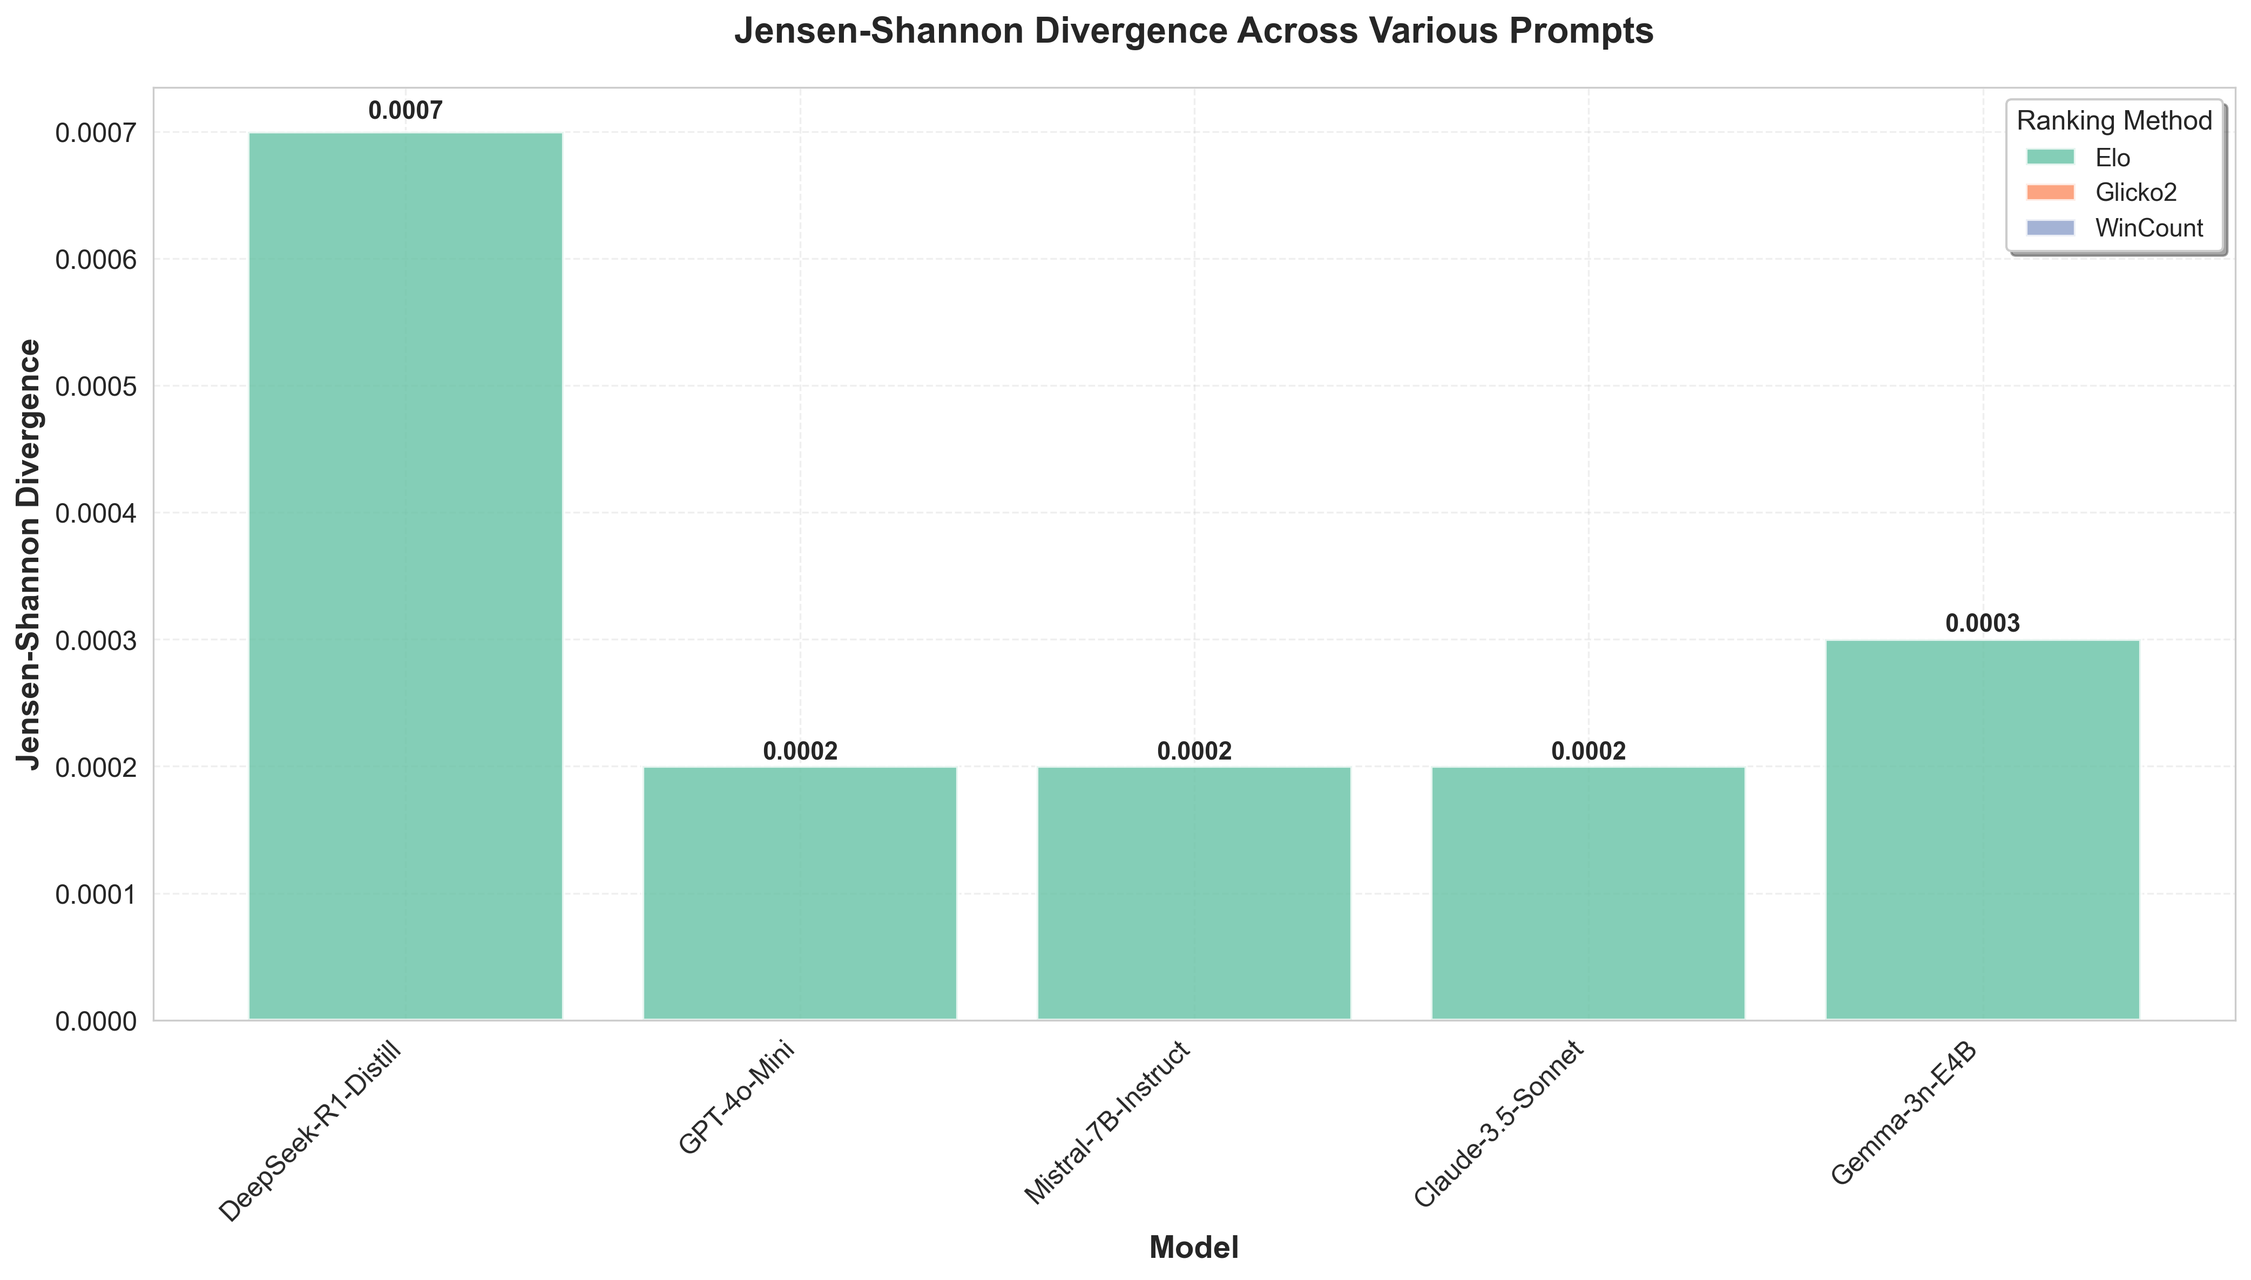
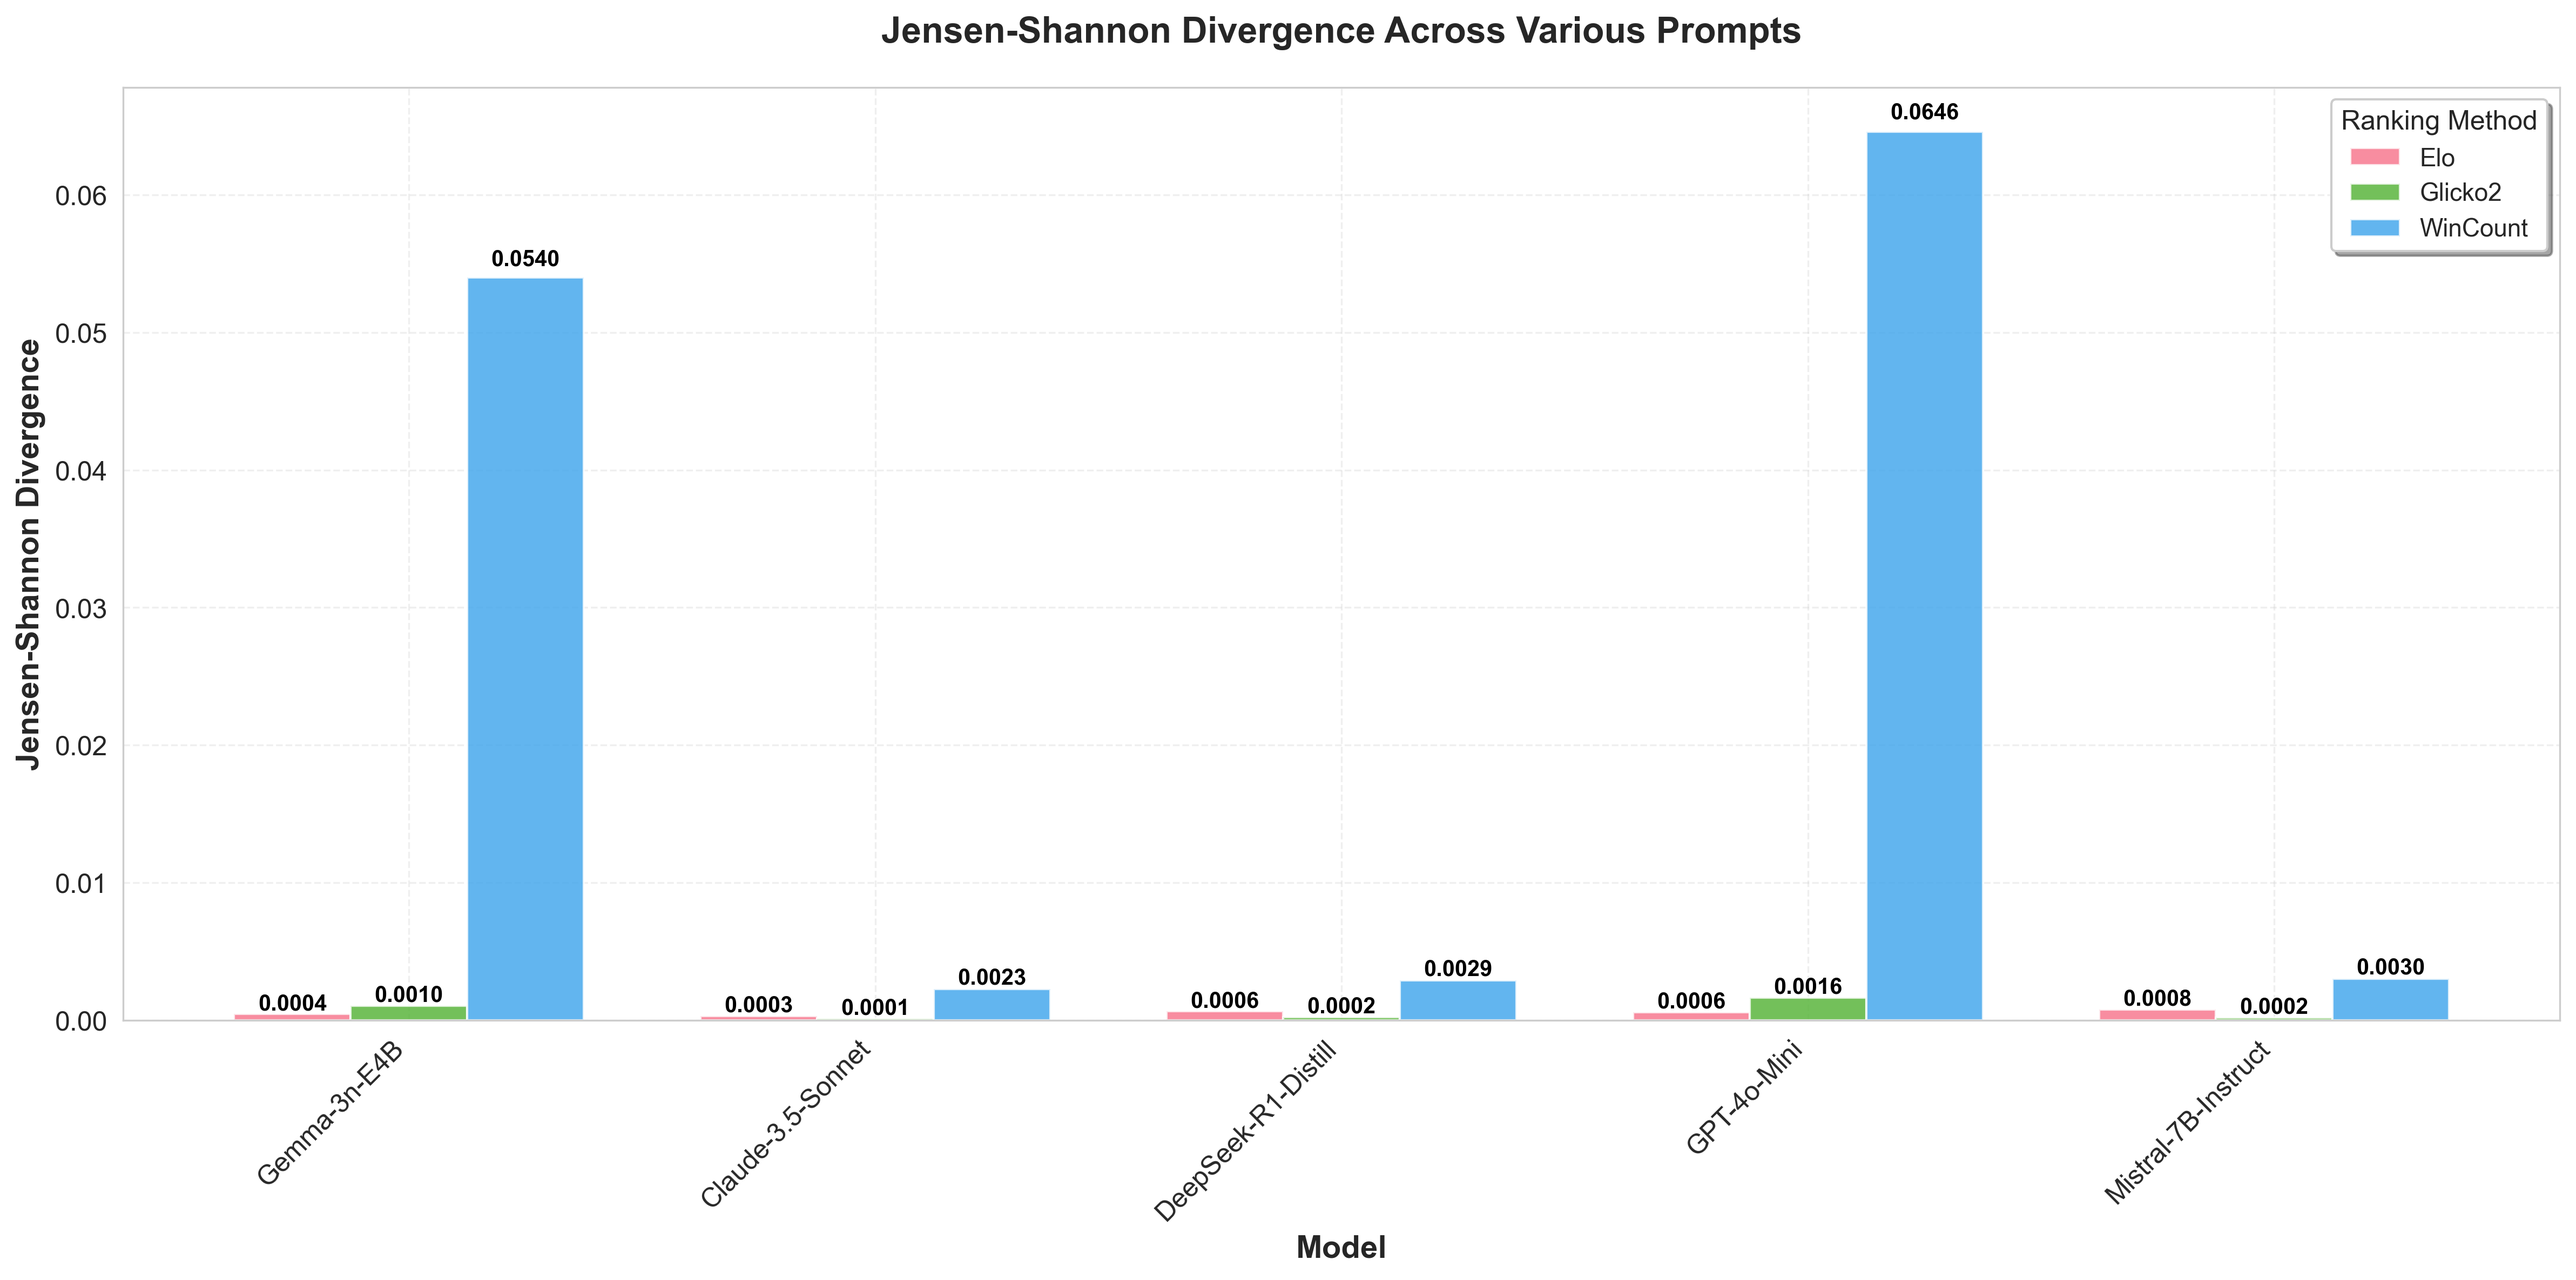
Add plots for ranking variance

diff --git a/create_prompts_variance_plots.py b/create_prompts_variance_plots.py
@@ -1,0 +1,96 @@
+import pandas as pd
+import matplotlib.pyplot as plt
+import seaborn as sns
+import numpy as np
+
+# Set seaborn style for better-looking plots
+sns.set_style("whitegrid")
+sns.set_palette("husl")
+
+# Read the variance metrics data
+df = pd.read_csv('logs/variances_over_prompts/variance_metrics_table.csv')
+
+# Use classic seaborn color palette
+colors = sns.color_palette("husl", 3)
+method_colors = {'Elo': colors[0], 'Glicko2': colors[1], 'WinCount': colors[2]}
+
+# Function to create grouped bar plots
+def create_grouped_bar_plot(df, metric, title, ylabel, filename):
+    plt.figure(figsize=(16, 8))
+    
+    # Get unique models and methods
+    models = df['Model'].unique()
+    methods = df['Method'].unique()
+    
+    # Set up bar positions
+    x = np.arange(len(models))
+    width = 0.25  # Width of each bar
+    offsets = np.linspace(-width, width, len(methods))
+    
+    # Create bars for each method
+    for i, method in enumerate(methods):
+        method_data = df[df['Method'] == method]
+        values = [method_data[method_data['Model'] == model][metric].iloc[0] 
+                 if len(method_data[method_data['Model'] == model]) > 0 else 0 
+                 for model in models]
+        
+        bars = plt.bar(x + offsets[i], values, width, 
+                       label=method, color=method_colors[method], alpha=0.8,
+                       edgecolor='white', linewidth=1)
+        
+        # Add value labels on bars - clean without boxes
+        for bar, value in zip(bars, values):
+            height = bar.get_height()
+            if height > 0:  # Only add label if bar has height
+                if metric == 'Rank Edit Distance':
+                    label_text = f'{height:.0f}'
+                elif metric == 'Jensen-Shannon Divergence':
+                    label_text = f'{height:.4f}'
+                else:
+                    label_text = f'{height:.3f}'
+                
+                plt.text(bar.get_x() + bar.get_width()/2., height + height*0.01,
+                        label_text, ha='center', va='bottom', fontsize=10, fontweight='bold',
+                        color='black')
+    
+    plt.title(title, fontsize=16, fontweight='bold', pad=20)
+    plt.ylabel(ylabel, fontsize=14, fontweight='bold')
+    plt.xlabel('Model', fontsize=14, fontweight='bold')
+    plt.xticks(x, models, rotation=45, ha='right', fontsize=12)
+    plt.yticks(fontsize=12)
+    plt.legend(title='Ranking Method', title_fontsize=12, fontsize=11, frameon=True, fancybox=True, shadow=True)
+    plt.grid(True, alpha=0.3, linestyle='--')
+    plt.tight_layout()
+    plt.savefig(filename, dpi=300, bbox_inches='tight', facecolor='white')
+    plt.show()
+
+# Create all three plots
+create_grouped_bar_plot(df, 'Total Variation Distance', 
+                       'Total Variation Distance Across Various Prompts',
+                       'Total Variation Distance',
+                       'logs/variances_over_prompts/tvd_plot.png')
+
+create_grouped_bar_plot(df, 'Jensen-Shannon Divergence',
+                       'Jensen-Shannon Divergence Across Various Prompts',
+                       'Jensen-Shannon Divergence',
+                       'logs/variances_over_prompts/jsd_plot.png')
+
+create_grouped_bar_plot(df, 'Rank Edit Distance',
+                       'Rank Edit Distance Across Various Prompts',
+                       'Rank Edit Distance',
+                       'logs/variances_over_prompts/rank_edit_distance_plot.png')
+
+print("Individual plots saved:")
+print("- logs/variances_over_prompts/tvd_plot.png")
+print("- logs/variances_over_prompts/jsd_plot.png") 
+print("- logs/variances_over_prompts/rank_edit_distance_plot.png")
+
+# Summary statistics
+print("\nSummary Statistics:")
+print("=" * 50)
+for metric in ['Total Variation Distance', 'Jensen-Shannon Divergence', 'Rank Edit Distance']:
+    print(f"\n{metric}:")
+    print(f"  Min: {df[metric].min():.4f}")
+    print(f"  Max: {df[metric].max():.4f}")
+    print(f"  Mean: {df[metric].mean():.4f}")
+    print(f"  Std: {df[metric].std():.4f}") 

diff --git a/create_runs_variance_plots.py b/create_runs_variance_plots.py
@@ -1,0 +1,96 @@
+import pandas as pd
+import matplotlib.pyplot as plt
+import seaborn as sns
+import numpy as np
+
+# Set seaborn style for better-looking plots
+sns.set_style("whitegrid")
+sns.set_palette("husl")
+
+# Read the variance metrics data
+df = pd.read_csv('logs/variances_over_runs/variance_metrics_table.csv')
+
+# Use classic seaborn color palette
+colors = sns.color_palette("husl", 3)
+method_colors = {'Elo': colors[0], 'Glicko2': colors[1], 'WinCount': colors[2]}
+
+# Function to create grouped bar plots
+def create_grouped_bar_plot(df, metric, title, ylabel, filename):
+    plt.figure(figsize=(16, 8))
+    
+    # Get unique models and methods
+    models = df['Model'].unique()
+    methods = df['Method'].unique()
+    
+    # Set up bar positions
+    x = np.arange(len(models))
+    width = 0.25  # Width of each bar
+    offsets = np.linspace(-width, width, len(methods))
+    
+    # Create bars for each method
+    for i, method in enumerate(methods):
+        method_data = df[df['Method'] == method]
+        values = [method_data[method_data['Model'] == model][metric].iloc[0] 
+                 if len(method_data[method_data['Model'] == model]) > 0 else 0 
+                 for model in models]
+        
+        bars = plt.bar(x + offsets[i], values, width, 
+                       label=method, color=method_colors[method], alpha=0.8,
+                       edgecolor='white', linewidth=1)
+        
+        # Add value labels on bars - clean without boxes
+        for bar, value in zip(bars, values):
+            height = bar.get_height()
+            if height > 0:  # Only add label if bar has height
+                if metric == 'Rank Edit Distance':
+                    label_text = f'{height:.0f}'
+                elif metric == 'Jensen-Shannon Divergence':
+                    label_text = f'{height:.4f}'
+                else:
+                    label_text = f'{height:.3f}'
+                
+                plt.text(bar.get_x() + bar.get_width()/2., height + height*0.01,
+                        label_text, ha='center', va='bottom', fontsize=10, fontweight='bold',
+                        color='black')
+    
+    plt.title(title, fontsize=16, fontweight='bold', pad=20)
+    plt.ylabel(ylabel, fontsize=14, fontweight='bold')
+    plt.xlabel('Model', fontsize=14, fontweight='bold')
+    plt.xticks(x, models, rotation=45, ha='right', fontsize=12)
+    plt.yticks(fontsize=12)
+    plt.legend(title='Ranking Method', title_fontsize=12, fontsize=11, frameon=True, fancybox=True, shadow=True)
+    plt.grid(True, alpha=0.3, linestyle='--')
+    plt.tight_layout()
+    plt.savefig(filename, dpi=300, bbox_inches='tight', facecolor='white')
+    plt.show()
+
+# Create all three plots
+create_grouped_bar_plot(df, 'Total Variation Distance', 
+                       'Total Variation Distance Across Various Runs',
+                       'Total Variation Distance',
+                       'logs/variances_over_runs/tvd_plot.png')
+
+create_grouped_bar_plot(df, 'Jensen-Shannon Divergence',
+                       'Jensen-Shannon Divergence Across Various Runs',
+                       'Jensen-Shannon Divergence',
+                       'logs/variances_over_runs/jsd_plot.png')
+
+create_grouped_bar_plot(df, 'Rank Edit Distance',
+                       'Rank Edit Distance Across Various Runs',
+                       'Rank Edit Distance',
+                       'logs/variances_over_runs/rank_edit_distance_plot.png')
+
+print("Individual plots saved:")
+print("- logs/variances_over_runs/tvd_plot.png")
+print("- logs/variances_over_runs/jsd_plot.png") 
+print("- logs/variances_over_runs/rank_edit_distance_plot.png")
+
+# Summary statistics
+print("\nSummary Statistics:")
+print("=" * 50)
+for metric in ['Total Variation Distance', 'Jensen-Shannon Divergence', 'Rank Edit Distance']:
+    print(f"\n{metric}:")
+    print(f"  Min: {df[metric].min():.4f}")
+    print(f"  Max: {df[metric].max():.4f}")
+    print(f"  Mean: {df[metric].mean():.4f}")
+    print(f"  Std: {df[metric].std():.4f}") 

diff --git a/create_prompts_variance_table.py b/create_prompts_variance_table.py
@@ -1,0 +1,60 @@
+import pandas as pd
+import glob
+import os
+
+# Directory containing the prompts variance CSV files
+variances_dir = 'logs/variances_over_prompts'
+output_dir = 'logs/variances_over_prompts'
+
+# Find all variance CSV files in the prompts directory
+csv_files = glob.glob(os.path.join(variances_dir, 'ranking_variance_*.csv'))
+
+# Read and combine all variance results
+all_results = []
+for file in csv_files:
+    df = pd.read_csv(file)
+    all_results.append(df)
+
+# Combine all results
+combined_df = pd.concat(all_results, ignore_index=True)
+
+# Create a summary table for plotting
+summary_data = []
+for _, row in combined_df.iterrows():
+    # Extract model name from run1 (take the part before the first underscore)
+    model_name = row['run1'].split('_')[0]
+    
+    # Clean up model names for display
+    if model_name == 'anthropic':
+        model_name = 'Claude-3.5-Sonnet'
+    elif model_name == 'openai':
+        model_name = 'GPT-4o-Mini'
+    elif model_name == 'together':
+        # Extract the actual model name from the together runs
+        parts = row['run1'].split('_')
+        if 'deepseek' in row['run1']:
+            model_name = 'DeepSeek-R1-Distill'
+        elif 'google' in row['run1']:
+            model_name = 'Gemma-3n-E4B'
+        elif 'mistralai' in row['run1']:
+            model_name = 'Mistral-7B-Instruct'
+    
+    summary_data.append({
+        'Model': model_name,
+        'Method': row['method'],
+        'Total Variation Distance': row['tvd'],
+        'Jensen-Shannon Divergence': row['jsd'],
+        'Rank Edit Distance': row['rank_edit_distance']
+    })
+
+# Create summary DataFrame
+summary_df = pd.DataFrame(summary_data)
+
+# Save the summary table
+os.makedirs(output_dir, exist_ok=True)
+summary_df.to_csv(os.path.join(output_dir, 'variance_metrics_table.csv'), index=False)
+
+print(f"Prompts variance summary table saved to {output_dir}/variance_metrics_table.csv")
+print(f"Total entries: {len(summary_df)}")
+print("\nSummary by model:")
+print(summary_df.groupby('Model').size()) 

diff --git a/create_runs_variance_table.py b/create_runs_variance_table.py
@@ -1,0 +1,60 @@
+import pandas as pd
+import glob
+import os
+
+# Directory containing the runs variance CSV files
+variances_dir = 'logs/variances_over_runs'
+output_dir = 'logs/variances_over_runs'
+
+# Find all variance CSV files in the runs directory
+csv_files = glob.glob(os.path.join(variances_dir, 'ranking_variance_*.csv'))
+
+# Read and combine all variance results
+all_results = []
+for file in csv_files:
+    df = pd.read_csv(file)
+    all_results.append(df)
+
+# Combine all results
+combined_df = pd.concat(all_results, ignore_index=True)
+
+# Create a summary table for plotting
+summary_data = []
+for _, row in combined_df.iterrows():
+    # Extract model name from run1 (take the part before the first underscore)
+    model_name = row['run1'].split('_')[0]
+    
+    # Clean up model names for display
+    if model_name == 'anthropic':
+        model_name = 'Claude-3.5-Sonnet'
+    elif model_name == 'openai':
+        model_name = 'GPT-4o-Mini'
+    elif model_name == 'together':
+        # Extract the actual model name from the together runs
+        parts = row['run1'].split('_')
+        if 'deepseek' in row['run1']:
+            model_name = 'DeepSeek-R1-Distill'
+        elif 'google' in row['run1']:
+            model_name = 'Gemma-3n-E4B'
+        elif 'mistralai' in row['run1']:
+            model_name = 'Mistral-7B-Instruct'
+    
+    summary_data.append({
+        'Model': model_name,
+        'Method': row['method'],
+        'Total Variation Distance': row['tvd'],
+        'Jensen-Shannon Divergence': row['jsd'],
+        'Rank Edit Distance': row['rank_edit_distance']
+    })
+
+# Create summary DataFrame
+summary_df = pd.DataFrame(summary_data)
+
+# Save the summary table
+os.makedirs(output_dir, exist_ok=True)
+summary_df.to_csv(os.path.join(output_dir, 'variance_metrics_table.csv'), index=False)
+
+print(f"Runs variance summary table saved to {output_dir}/variance_metrics_table.csv")
+print(f"Total entries: {len(summary_df)}")
+print("\nSummary by model:")
+print(summary_df.groupby('Model').size()) 
